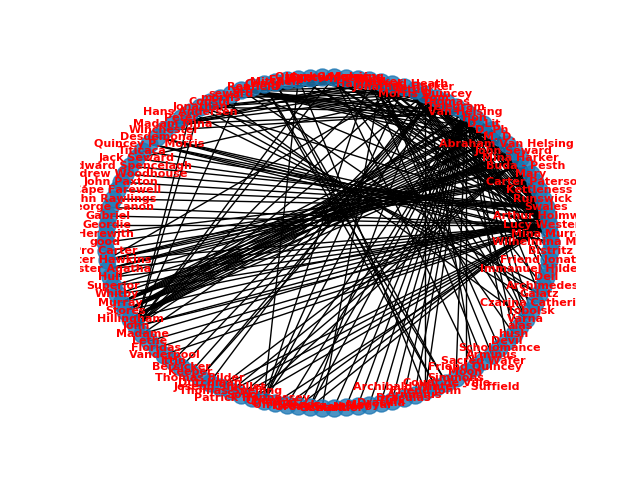
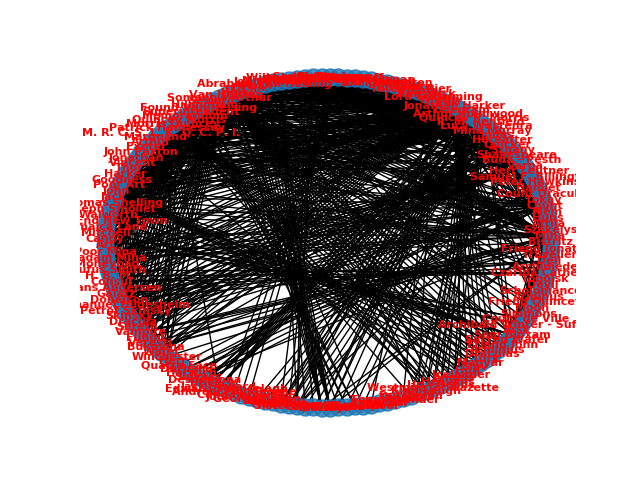
fixed nodes without edges issue, getting the last paragraph before conversation segment start and added some measures

diff --git a/base_code/graph_measures.py b/base_code/graph_measures.py
@@ -1,0 +1,42 @@
+import networkx as nx
+from operator import itemgetter
+
+from base_code.graph import load_graph
+
+
+def top_n_degree(graph, n=10):
+    degree_dict = dict(graph.degree(graph.nodes()))
+    sorted_degree = sorted(degree_dict.items(), key=itemgetter(1), reverse=True)
+    return sorted_degree[:n]
+
+
+def top_n_evcentrality(graph, n=10):
+    centrality = nx.eigenvector_centrality(graph)
+    sorted_ev = sorted(((v, '{:0.2f}'.format(c)) for v, c in centrality.items()), key=itemgetter(1), reverse=True)
+    return sorted_ev[:n]
+
+
+def top_n_betweenness(graph, n=10):
+    betweenness_dict = nx.betweenness_centrality(graph)
+    sorted_betweenness = sorted(((v, '{:0.2f}'.format(c)) for v, c in betweenness_dict.items()),
+                                key=itemgetter(1), reverse=True)
+    return sorted_betweenness[:n]
+
+
+if __name__ == '__main__':
+    graph_name = "conv_Dracula"
+    graph = load_graph("../conversational_net/graphs/" + graph_name)
+    graph = graph.to_undirected()
+    print("Top 10 nodes by degree:")
+    for n in top_n_degree(graph):
+        print(n)
+
+    print("------------------------------------------------------")
+    print("Top 10 nodes by eigenvector centrality:")
+    for n in top_n_evcentrality(graph):
+        print(n)
+
+    print("------------------------------------------------------")
+    print("Top 10 nodes by betweenness centrality:")
+    for n in top_n_betweenness(graph):
+        print(n)

diff --git a/base_code/correferents.py b/base_code/correferents.py
@@ -55,7 +55,8 @@ class Correferents:
                     if category not in self.female_title and category not in self.male_title:
                         rest = category + " " + rest
                 f_name = self.full_name(rest, ge, search_names)
-                res[f_name] = names_in_text[name] if f_name not in res.keys() else names_in_text[name] + res[f_name]
+                if len(f_name):
+                    res[f_name] = names_in_text[name] if f_name not in res.keys() else names_in_text[name] + res[f_name]
         return res
 
     def full_name(self, name, gen, search_names):
@@ -75,4 +76,5 @@ class Correferents:
             possibilities_in_text = [n for n in possibles_names if n in search_names]
             if len(possibilities_in_text) == 1:
                 return possibilities_in_text[0]
-        return name
+            return name
+        return ""

diff --git a/conversational_net/quotes_utils.py b/conversational_net/quotes_utils.py
@@ -7,8 +7,13 @@ def split_in_quotes(text):
 
 
 def split_in_sentences(text):
-    # sentences that end in a dot
-    return re.findall("([^.]*)[.]", text)
+    # paragraphs are divided with \n\n
+    paragraph = text.split("\n\n")
+    if len(paragraph) and is_empty(paragraph[-1]):
+        paragraph = paragraph[:-1]
+    return paragraph
+    # # sentences that end in a dot
+    # return re.findall("([^.]*)[.]", text)
 
 
 def get_sentences_before_quote(text, quotes):
@@ -20,7 +25,7 @@ def get_sentences_before_quote(text, quotes):
         return
     sentences_before = split_in_sentences(text[:q_index])
     info = {"quote": quotes[0],
-            "before": clean(sentences_before[-1])  if len(sentences_before) else "",
+            "before": clean(sentences_before[-1]) if len(sentences_before) else "",
             "after": -1}
     all_sentences.append(info)
 

diff --git a/base_code/graph.py b/base_code/graph.py
@@ -4,21 +4,20 @@ import matplotlib.pyplot as plt
 from collections import Counter
 
 
-def add_nodes(graph, nodes):
+def add_kn(graph, nodes):
     nodes = Counter(nodes)
-    add_nodes_to_graph(nodes, graph)
+    if len(nodes.keys()) > 1:
+        add_nodes_to_graph(nodes, graph)
 
-    names = nodes.keys()
-    edges_kn = [(x, y) for x in names for y in names if x != y]
+        names = nodes.keys()
+        edges_kn = [(x, y) for x in names for y in names if x != y]
 
-    graph.add_edges_from(edges_kn, color='red')
+        graph.add_edges_from(edges_kn, color='red')
 
 
 def add_nodes_to_graph(nodes, graph):
     for name, count in nodes.items():
         node_count = (graph.node[name]['count'] if name in graph else 1) + count
-        if name == "Cape Farewell":
-            a = 0
         graph.add_node(name, count=node_count)
 
 

diff --git a/conversational_net/quoted_speech.py b/conversational_net/quoted_speech.py
@@ -29,7 +29,7 @@ def get_conversational_graph(text, graph_name):
 
     graph = nx.Graph()
     for names in no_talk_names:
-        add_nodes(graph, names)
+        add_kn(graph, names)
 
     for i in range(len(conversation_names)):
         for name in conversation_names[i]:

diff --git a/base_code/strings_utils.py b/base_code/strings_utils.py
@@ -8,4 +8,4 @@ def script(s):
 
 
 def valid_name(n):
-    return not apostrophe(n) and not script(n)
+    return not apostrophe(n) and not script(n) and len(n) > 1 and n[0].isupper()
